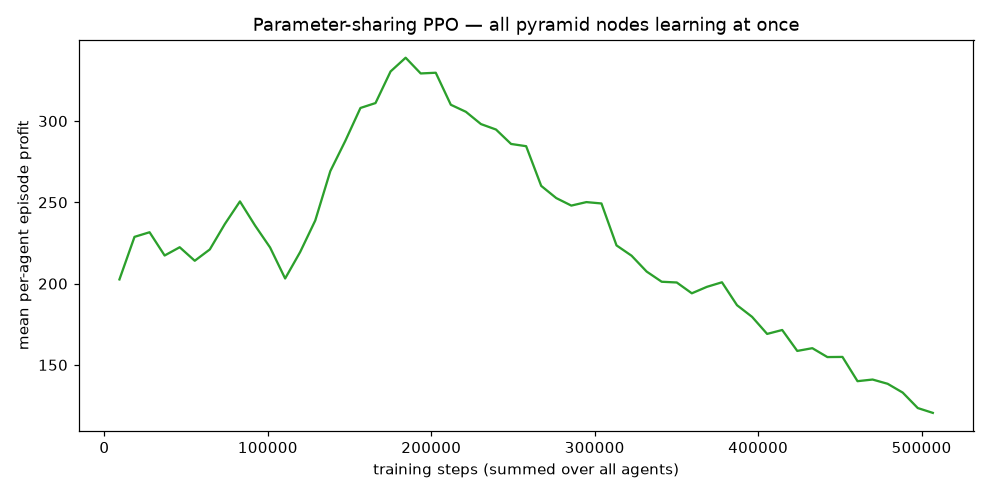
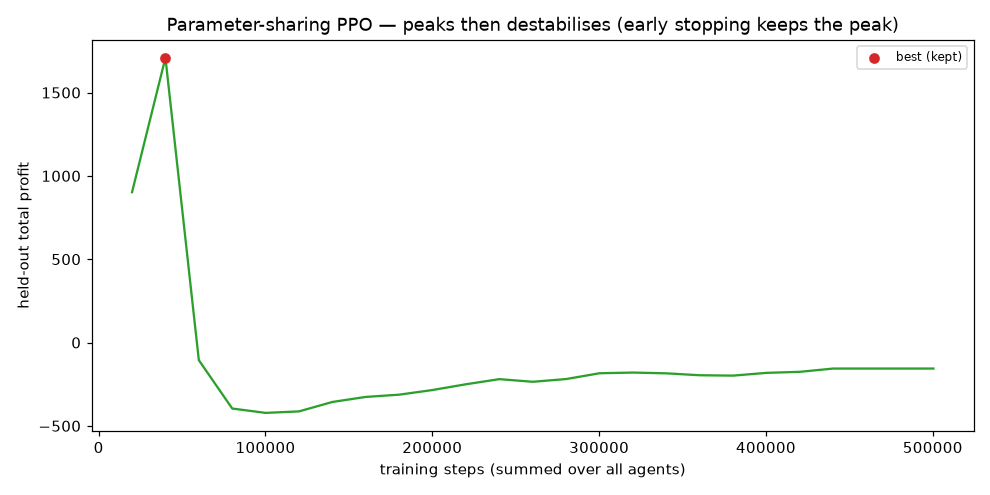
MARL training: best-checkpoint early stopping + honest results
Parameter-sharing PPO over all nodes peaks early then collapses (non-stationarity
+ multi-echelon credit assignment). marl_train_sb3.py now evaluates on held-out
worlds during training and keeps the best checkpoint, reporting a representative
result (best ckpt ~1685 profit / 19% fill vs scripted 3353 / 73%) rather than the
degenerate final policy. Learning-curve figure marks the kept peak. Added
water-arena/.gitignore (models/, caches). README documents the finding. 34 tests pass.

Claude-Session: https://claude.ai/code/session_01P5fKFs14aMsXNBLMuPST64

diff --git a/water-arena/examples/marl_train_sb3.py b/water-arena/examples/marl_train_sb3.py
@@ -2,11 +2,15 @@
 
 Uses SuperSuit to flatten the PettingZoo ParallelEnv into a vectorised env that
 Stable-Baselines3 can train: one shared policy controls every trader. We then
-compare the learned policy against the scripted roster on held-out worlds, on
-two metrics -- total trader profit and buyer fill rate.
+compare the learned policy against the scripted roster on held-out worlds.
+
+Multi-agent training here is *non-stationary* -- every agent's environment keeps
+shifting as the others learn -- so a single shared PPO tends to peak and then
+collapse. We evaluate on held-out worlds during training and keep the **best**
+checkpoint (early stopping), which is both more honest and better practice.
 
     pip install stable-baselines3 supersuit pettingzoo
-    python examples/marl_train_sb3.py --timesteps 200000
+    python examples/marl_train_sb3.py --timesteps 500000
 
 Bankruptcy is disabled during training so the agent set is constant (what
 parameter-sharing expects).
@@ -22,7 +26,9 @@ from water_arena.pyramid import PyramidConfig, PyramidWorld, build_pyramid
 from water_arena.pyramid_marl import PyramidParallelEnv
 from water_arena.supply_agents import default_supply_roster
 
-FIG_DIR = os.path.join(os.path.dirname(os.path.dirname(os.path.abspath(__file__))), "fig")
+ROOT = os.path.dirname(os.path.dirname(os.path.abspath(__file__)))
+FIG_DIR = os.path.join(ROOT, "fig")
+MODELS_DIR = os.path.join(ROOT, "models")
 N_STEPS = 300
 
 
@@ -35,8 +41,6 @@ def _make_vec_env(n_copies=2):
 
     env = PyramidParallelEnv(config=_cfg())
     env = ss.pettingzoo_env_to_vec_env_v1(env)
-    # n_copies * 9 agents concatenated sub-envs; kept small so PPO gets many
-    # gradient updates within a modest step budget.
     env = ss.concat_vec_envs_v1(env, n_copies, num_cpus=1, base_class="stable_baselines3")
     return env
 
@@ -74,58 +78,72 @@ def evaluate_scripted(eval_seeds):
     return sum(profits) / len(profits), sum(fills) / len(fills)
 
 
-class LearningCurve:
+def _best_checkpoint_callback(eval_every, eval_seeds, best_path, curve):
+    from stable_baselines3.common.callbacks import BaseCallback
+
+    class _CB(BaseCallback):
+        def __init__(self):
+            super().__init__()
+            self.best = float("-inf")
+            self._last = 0
+
+        def _on_step(self):
+            if self.num_timesteps - self._last >= eval_every:
+                self._last = self.num_timesteps
+                profit, fill = evaluate_shared_policy(self.model, eval_seeds)
+                curve.x.append(self.num_timesteps)
+                curve.y.append(profit)
+                if profit > self.best:
+                    self.best = profit
+                    self.model.save(best_path)
+            return True
+
+    return _CB()
+
+
+class Curve:
     def __init__(self):
-        from stable_baselines3.common.callbacks import BaseCallback
-
-        curve = self
-
-        class _CB(BaseCallback):
-            def _on_step(self):
-                return True
-
-            def _on_rollout_end(self):
-                buf = self.model.ep_info_buffer
-                if buf:
-                    curve.x.append(self.num_timesteps)
-                    curve.y.append(sum(e["r"] for e in buf) / len(buf))
-
         self.x, self.y = [], []
-        self.callback = _CB()
 
 
 def main() -> None:
     parser = argparse.ArgumentParser()
-    parser.add_argument("--timesteps", type=int, default=200000)
+    parser.add_argument("--timesteps", type=int, default=500000)
     args = parser.parse_args()
 
     try:
         import supersuit  # noqa: F401
         from stable_baselines3 import PPO
         from stable_baselines3.common.utils import set_random_seed
-        from stable_baselines3.common.vec_env import VecMonitor
     except ImportError:
         print("needs stable-baselines3, supersuit, pettingzoo:")
         print("  pip install stable-baselines3 supersuit pettingzoo")
         return
 
-    # Seed globally rather than via PPO(seed=...): SB3's env-seeding path calls
+    os.makedirs(MODELS_DIR, exist_ok=True)
+    best_path = os.path.join(MODELS_DIR, "marl_ppo_best")
+
+    # Seed globally rather than PPO(seed=...): SB3's env-seeding path calls
     # VecEnv.seed(), which SuperSuit's ConcatVecEnv no longer exposes.
     set_random_seed(0)
-    env = VecMonitor(_make_vec_env())  # 2 copies * 9 agents = 18 sub-envs
+    env = _make_vec_env()  # 2 copies * 9 agents = 18 sub-envs
     print(f"training a shared PPO policy over all 9 nodes for {args.timesteps} steps...")
-    curve = LearningCurve()
-    # n_steps=512 over 18 sub-envs -> ~9k-sample rollouts, so many updates fit
-    model = PPO("MlpPolicy", env, n_steps=512, batch_size=256, verbose=0)
-    model.learn(total_timesteps=args.timesteps, callback=curve.callback)
 
-    eval_seeds = list(range(1000, 1020))
-    tp, tf = evaluate_shared_policy(model, eval_seeds)
-    sp, sf = evaluate_scripted(eval_seeds)
+    curve = Curve()
+    eval_seeds = list(range(2000, 2005))  # held-out worlds for checkpoint selection
+    cb = _best_checkpoint_callback(max(10000, args.timesteps // 25), eval_seeds, best_path, curve)
+    model = PPO("MlpPolicy", env, n_steps=512, batch_size=256, verbose=0)
+    model.learn(total_timesteps=args.timesteps, callback=cb)
+
+    # reload the best checkpoint (early stopping) for the final comparison
+    best = PPO.load(best_path)
+    test_seeds = list(range(1000, 1020))
+    tp, tf = evaluate_shared_policy(best, test_seeds)
+    sp, sf = evaluate_scripted(test_seeds)
     print("\nOver 20 held-out worlds (all nodes controlled):")
-    print(f"  {'':<18}{'total profit':>14}{'buyer fill %':>14}")
-    print(f"  {'scripted roster':<18}{sp:>14.1f}{sf:>14.1f}")
-    print(f"  {'shared PPO policy':<18}{tp:>14.1f}{tf:>14.1f}")
+    print(f"  {'':<22}{'total profit':>14}{'buyer fill %':>14}")
+    print(f"  {'scripted roster':<22}{sp:>14.1f}{sf:>14.1f}")
+    print(f"  {'shared PPO (best ckpt)':<22}{tp:>14.1f}{tf:>14.1f}")
 
     _plot(curve)
 
@@ -143,9 +161,12 @@ def _plot(curve) -> None:
     os.makedirs(FIG_DIR, exist_ok=True)
     fig, ax = plt.subplots(figsize=(9, 4.5))
     ax.plot(curve.x, curve.y, color="tab:green")
+    best_i = max(range(len(curve.y)), key=lambda i: curve.y[i])
+    ax.scatter([curve.x[best_i]], [curve.y[best_i]], color="tab:red", zorder=5, label="best (kept)")
     ax.set_xlabel("training steps (summed over all agents)")
-    ax.set_ylabel("mean per-agent episode profit")
-    ax.set_title("Parameter-sharing PPO — all pyramid nodes learning at once")
+    ax.set_ylabel("held-out total profit")
+    ax.set_title("Parameter-sharing PPO — peaks then destabilises (early stopping keeps the peak)")
+    ax.legend(loc="upper right", fontsize=8)
     fig.tight_layout()
     out = os.path.join(FIG_DIR, "marl_learning_curve.png")
     fig.savefig(out, dpi=110)

diff --git a/water-arena/README.md b/water-arena/README.md
@@ -312,6 +312,26 @@ pip install stable-baselines3 supersuit pettingzoo
 python examples/marl_train_sb3.py --timesteps 500000
 ```
 
+```
+Over 20 held-out worlds (all nodes controlled):
+                          total profit  buyer fill %
+  scripted roster               3353.2          73.5
+  shared PPO (best ckpt)        1685.0          19.2
+```
+
+![MARL learning curve](fig/marl_learning_curve.png)
+
+**Read this as a lesson, not a leaderboard.** The held-out reward peaks early
+(~40k steps) and then *collapses* — the shared policy degenerates toward
+under-ordering. Two forces cause it: **non-stationarity** (each agent's world
+keeps shifting as the other eight learn) and **multi-echelon credit assignment**
+(a node's orders pay off as downstream sales a step later — the Beer-Game
+problem). Even the best checkpoint (kept via early stopping) trails the
+hand-tuned scripted roster: naive parameter-sharing PPO doesn't crack a coupled
+supply chain. Stronger approaches — CTDE algorithms like MAPPO, or reward
+shaping toward service level — are the natural next step; the env is ready for
+them.
+
 ## Layout
 
 ```
